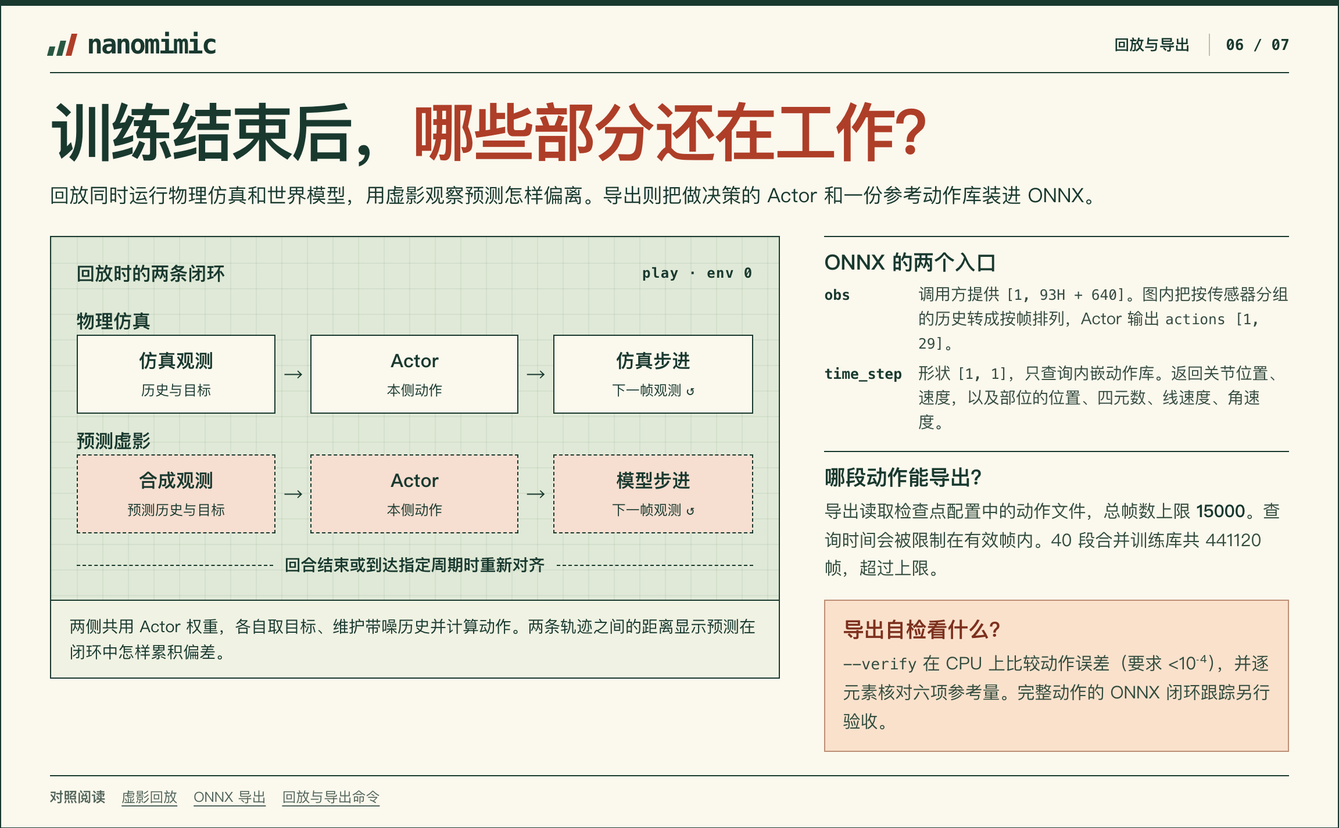
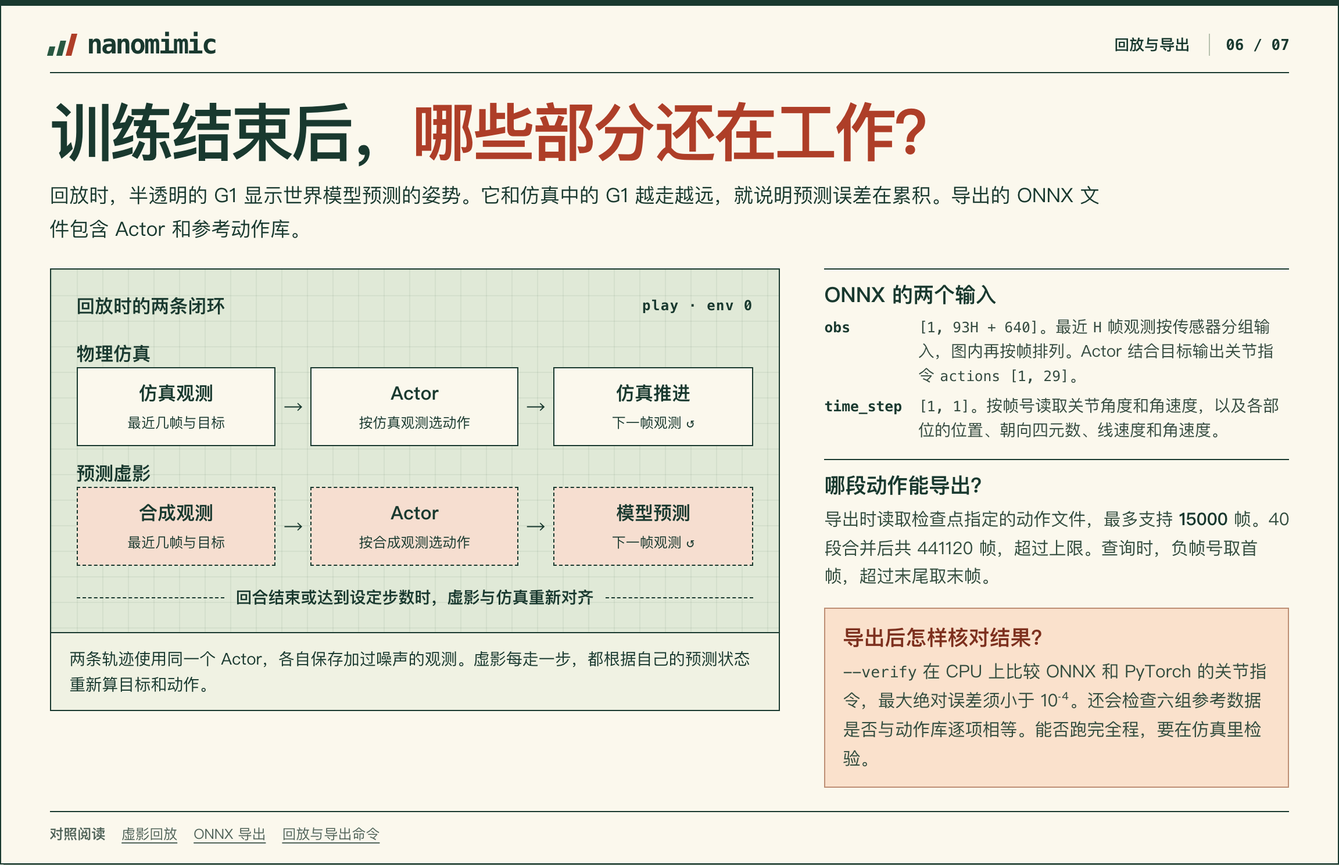
docs(wiki): 改写八张图解海报的中文说明
说明 CPU 测试怎样与参考结果比较，以及每次跟踪尝试统计到哪一步。同步更新 HTML 和 PNG 海报。

diff --git a/docs/wiki/html/01-training.html b/docs/wiki/html/01-training.html
@@ -16,15 +16,15 @@
     </header>
     <header class="titleblock">
       <h1>仿真走一步，<em>模型能推演多远？</em></h1>
-      <p>策略（Actor）给关节下指令，物理仿真记录 G1 的响应。连续几帧可以教模型预测，取其中一帧又可以让策略尝试接下来的动作。</p>
+      <p>策略（Actor）给关节发指令，仿真器记录 G1 怎样运动。模型用连续几帧学习预测，策略也可以从其中一帧出发，在模型里尝试接下来的动作。</p>
     </header>
     <div class="spread">
       <figure class="plate training-figure">
         <div class="plate-inner blueprint">
           <div class="fig-head"><span>一条轨迹的两种用法</span><span class="fig-no">1 → 8 / 32</span></div>
           <svg class="diagram" viewBox="0 0 602 263" role="img" aria-labelledby="flow-title flow-desc">
-            <title id="flow-title">物理采集、世界模型拟合和想象构成训练闭环</title>
-            <desc id="flow-desc">物理仿真每次前进一步，轨迹进入回放缓冲。连续九帧用于拟合八步，单帧起点和历史用于三十二步想象。更新后的策略回到仿真采集。</desc>
+            <title id="flow-title">一段仿真记录如何用于训练模型和策略</title>
+            <desc id="flow-desc">仿真器每走一步就把记录写入缓冲区。用连续九帧训练模型预测八步，也可以从一帧及其观测历史出发，让策略在模型中尝试三十二步。更新后的策略继续在仿真中采集数据。</desc>
             <defs>
               <marker id="arrow" viewBox="0 0 10 10" refX="8" refY="5" markerWidth="6" markerHeight="6" orient="auto"><path d="M0 0 10 5 0 10Z" fill="#cddbcc"/></marker>
               <marker id="return-arrow" viewBox="0 0 10 10" refX="8" refY="5" markerWidth="6" markerHeight="6" orient="auto"><path d="M0 0 10 5 0 10Z" fill="#fa906c"/></marker>
@@ -38,33 +38,33 @@
               <rect x="3" y="78" width="126" height="65" fill="#eff1dd"/><rect x="180" y="78" width="123" height="65" fill="#eff1dd"/>
               <rect x="433" y="18" width="148" height="64" fill="#e4edcf"/><rect x="433" y="138" width="148" height="64" fill="#f3d46e"/>
               <g color="#19392f">
-                <text x="66" y="106" class="node-title">物理仿真</text><text x="66" y="127" class="node-sub">Actor 出动作</text>
-                <text x="242" y="106" class="node-title">回放缓冲</text><text x="242" y="127" class="node-sub">每环境 1000 步</text>
+                <text x="66" y="106" class="node-title">物理仿真</text><text x="66" y="127" class="node-sub">Actor 选动作</text>
+                <text x="242" y="106" class="node-title">回放缓冲区</text><text x="242" y="127" class="node-sub">每个环境 1000 步</text>
                 <text x="507" y="46" class="node-title">拟合动力学</text><text x="507" y="67" class="node-sub">预测 8 步</text>
                 <text x="507" y="166" class="node-title">改进策略</text><text x="507" y="187" class="node-sub">想象 32 步</text>
               </g>
-              <g class="node-sub"><text x="152" y="98">写入</text><text x="374" y="41">连续 9 帧</text><text x="376" y="158">起点和历史</text><text x="551" y="114">模型固定</text></g>
-              <text x="279" y="250" color="#ffc5a4" font-size="15">更新后的 Actor 回到仿真采集</text>
+              <g class="node-sub"><text x="152" y="98">写入</text><text x="374" y="41">连续 9 帧</text><text x="376" y="158">起点和历史</text><text x="551" y="114">固定参数</text></g>
+              <text x="279" y="250" color="#ffc5a4" font-size="15">用更新后的 Actor 继续采集轨迹</text>
             </g>
           </svg>
           <ol class="narrow-flow">
-            <li>物理仿真走 1 步，写入回放缓冲。</li>
-            <li><strong>连续 9 帧</strong> → 用记录的动作拟合 8 步。</li>
-            <li><strong>起点和历史</strong> → 在学好的模型里想象 32 步。</li>
-            <li>更新后的 Actor 回到仿真采集。</li>
+            <li>物理仿真走 1 步，把记录写入缓冲区。</li>
+            <li><strong>连续 9 帧</strong> → 用记录中的动作预测后 8 帧。</li>
+            <li><strong>起点和观测历史</strong> → 让策略在模型里尝试 32 步。</li>
+            <li>用更新后的 Actor 继续采集轨迹。</li>
           </ol>
         </div>
         <figcaption class="fig-caption">拟合时，模型依次执行记录中的动作。想象时，Actor 根据每一步的预测状态重新决定动作。</figcaption>
       </figure>
       <aside class="sidebar">
-        <section class="note"><h2>8 步，学动作的后果</h2><p>选取同一回合内的连续状态，从首帧向前预测。后面 8 帧的仿真状态给世界模型提供监督。</p></section>
+        <section class="note"><h2>8 步，学会预测</h2><p>从同一回合取连续 9 帧。模型从第 1 帧开始，按记录中的动作预测后 8 帧，再把每一步的预测与仿真记录比较。</p></section>
         <details class="note extra-note" open><summary><h2>32 步，找更好的动作</h2></summary><p>默认推演 0.64 秒。回报的梯度沿预测链传回 Actor。此时世界模型与价值网络的参数固定，仍保留对输入的导数。</p></details>
-        <details class="note tint extra-note" open><summary><h2>多久更新一次？</h2></summary><p>默认 4096 个环境，每次采集累积 <strong>0.4 轮</strong>训练额度。缓冲可采样且额度满一轮时，先拟合模型，再改进策略。</p></details>
+        <details class="note tint extra-note" open><summary><h2>多久更新一次？</h2></summary><p>默认同时运行 4096 个环境，平均每采集 <strong>5 次</strong>训练 <strong>2 轮</strong>。缓冲区里有同一回合的连续 9 帧后才开始训练，每轮先拟合模型，再改进策略。</p></details>
       </aside>
     </div>
     <footer class="sources">
       <strong>对照阅读</strong>
-      <a href="../../../src/nanomimic/training/train.py">采集与排程</a>
+      <a href="../../../src/nanomimic/training/train.py">采集与训练调度</a>
       <a href="../../../src/nanomimic/rollout/buffer.py">缓冲采样</a>
       <a href="../../../src/nanomimic/training/learning.py">拟合与策略更新</a>
       <a href="../../../src/nanomimic/training/config.py">默认配置</a>

diff --git a/docs/wiki/html/04-world-model.html b/docs/wiki/html/04-world-model.html
@@ -16,7 +16,7 @@
     </header>
     <header class="titleblock">
       <h1>怎样从动作推算<em>下一个姿势？</em></h1>
-      <p>世界模型先学“速度会变多少”。得到新速度之后，用一个控制步的时间更新位姿，再沿关节树算出手脚的位置。</p>
+      <p>世界模型先预测速度会变多少，再用新速度推算 0.02 秒后机器人的位置和姿势。知道骨盆的位置、朝向和各关节的角度，就能沿关节树算出手脚的位置。这一步叫正运动学（FK）。</p>
     </header>
     <div class="spread">
       <figure class="plate">
@@ -24,18 +24,18 @@
           <div class="fig-head"><span>世界模型的一步</span><span class="fig-no">dt = 0.02 s</span></div>
           <div class="model-layout">
             <div class="model-math">
-          <div class="representation" aria-label="68 维状态、29 维处理后动作、33 维环境上下文，拼为 130 维输入">
+          <div class="representation" aria-label="68 维模型状态、29 维关节目标和 33 维仿真参数，共 130 维输入">
             <div class="term"><b>68</b><small>模型状态</small></div><span>+</span>
             <div class="term"><b>29</b><small>关节目标¹</small></div><span>+</span>
-            <div class="term"><b>33</b><small>环境上下文</small></div>
+            <div class="term"><b>33</b><small>仿真参数</small></div>
           </div>
           <div class="model-band"><span><strong>130 维</strong> → 动力学网络</span><b>3 × 2048</b></div>
-          <p class="under-band"><strong>↓ 输出 35 个速度增量</strong><br>根线速度 3、根角速度 3、关节速度 29。</p>
-          <div class="under-band flow-inline"><strong>新速度</strong><b>→</b><strong>积分位姿</strong><b>→</b><strong>FK</strong></div>
+          <p class="under-band"><strong>↓ 输出 35 个速度增量</strong><br>骨盆的线速度和角速度各 3 项，关节角速度 29 项。</p>
+          <div class="under-band flow-inline"><strong>更新速度</strong><b>→</b><strong>积分求位姿</strong><b>→</b><strong>FK</strong></div>
             </div>
             <svg class="diagram leg" viewBox="0 0 166 215" role="img" aria-labelledby="leg-title leg-desc">
               <title id="leg-title">G1 左腿正运动学</title>
-              <desc id="leg-desc">在舞步第 3040 帧的实际姿势上标出左髋、左膝和左踝。计算子部位的位置时要先知道父部位的位姿。</desc>
+              <desc id="leg-desc">图中标出舞步第 3040 帧的左髋、左膝和左踝。沿左腿从髋关节算到膝关节，再从膝关节算到脚踝。</desc>
               <image href="assets/g1-3040.webp" width="117.6" height="200.1"/>
               <path d="M71.95 99.32 49.73 130.43 58.08 171.18" fill="none" stroke="#b44427" stroke-width="2"/>
               <g fill="none" stroke="#87462b" stroke-width="1.25"><path d="M72 99.32H119 M50 130.43H119 M59 171.18H119"/></g>
@@ -45,19 +45,19 @@
             </svg>
           </div>
         </div>
-        <figcaption class="fig-caption">¹ 原始动作乘缩放系数再加偏置。环境上下文由脚摩擦 1 维、质心偏移 3 维和编码器偏置 29 维构成。</figcaption>
+        <figcaption class="fig-caption">¹ 将原始动作乘以缩放系数，再加上偏置，就得到关节目标。33 个仿真参数包括 1 个脚底摩擦系数、3 个方向的质心偏移和 29 个关节的编码器偏置。</figcaption>
       </figure>
       <aside class="sidebar">
         <section class="note tint"><h2>只看一个膝关节</h2><p>示例角度 0.40 rad，角速度 1.0 rad/s。网络预测本步增加 0.5 rad/s，新角速度就是 1.5 rad/s。</p><p class="under-band"><strong>新角度 = 0.40 + 0.02 × 1.5 = 0.43 rad</strong></p></section>
-        <details class="note extra-note" open><summary><h2>根位姿从哪里来？</h2></summary><p>71 维完整状态转成 68 维模型表示，保留根高度、机体系重力与速度、关节角度与速度。根位置和四元数另存为 7 维，随步积分。FK 沿树计算后取 14 个跟踪部位。</p></details>
-        <details class="note extra-note" open><summary><h2>什么算“预测得准”？</h2></summary><p>根位置、根朝向、关节位置与速度各有名义误差。Bryson 权重取其平方的倒数，让米、弧度等不同单位可以共同计入损失。</p></details>
+        <details class="note extra-note" open><summary><h2>怎样知道骨盆的位置和朝向？</h2></summary><p>先把 71 维完整状态转成网络要读的 68 维，保留骨盆高度、机身坐标系下的重力方向和速度，以及关节角度和角速度。骨盆的位置（3 维）和朝向四元数（4 维）单独保存，每步按新速度更新。正运动学由此算出 14 个跟踪部位的状态。</p></details>
+        <details class="note extra-note" open><summary><h2>怎样衡量预测误差？</h2></summary><p>骨盆的位置、朝向、关节的角度和角速度各有一个参考误差。按 Bryson 规则，每项误差先除以对应的参考值，再平方。这样就能把单位不同的误差合在一起计算损失。</p></details>
       </aside>
     </div>
     <footer class="sources">
       <strong>对照阅读</strong>
       <a href="../../../src/nanomimic/models/model.py">积分与正运动学</a>
       <a href="../../../src/nanomimic/training/learning.py">加权损失</a>
-      <a href="../../../tests/test_model.py">对拍测试</a>
+      <a href="../../../tests/test_model.py">与参考结果比较的测试</a>
     </footer>
   </main>
   <nav class="page-nav" aria-label="海报导航">

diff --git a/docs/wiki/html/06-runtime.html b/docs/wiki/html/06-runtime.html
@@ -16,7 +16,7 @@
     </header>
     <header class="titleblock">
       <h1>训练结束后，<em>哪些部分还在工作？</em></h1>
-      <p>回放同时运行物理仿真和世界模型，用虚影观察预测怎样偏离。导出则把做决策的 Actor 和一份参考动作库装进 ONNX。</p>
+      <p>回放时，半透明的 G1 显示世界模型预测的姿势。它和仿真中的 G1 越走越远，就说明预测误差在累积。导出的 ONNX 文件包含 Actor 和参考动作库。</p>
     </header>
     <div class="spread">
       <figure class="plate">
@@ -24,27 +24,27 @@
           <div class="fig-head"><span>回放时的两条闭环</span><span class="fig-no">play · env 0</span></div>
           <div class="lanes">
             <div><strong>物理仿真</strong><div class="lane">
-              <span><b>仿真观测</b><small>历史与目标</small></span><span class="arrow">→</span>
-              <span><b>Actor</b><small>本侧动作</small></span><span class="arrow">→</span>
-              <span><b>仿真步进</b><small>下一帧观测 ↺</small></span>
+              <span><b>仿真观测</b><small>最近几帧与目标</small></span><span class="arrow">→</span>
+              <span><b>Actor</b><small>按仿真观测选动作</small></span><span class="arrow">→</span>
+              <span><b>仿真推进</b><small>下一帧观测 ↺</small></span>
             </div></div>
             <div><strong>预测虚影</strong><div class="lane pred">
-              <span><b>合成观测</b><small>预测历史与目标</small></span><span class="arrow">→</span>
-              <span><b>Actor</b><small>本侧动作</small></span><span class="arrow">→</span>
-              <span><b>模型步进</b><small>下一帧观测 ↺</small></span>
+              <span><b>合成观测</b><small>最近几帧与目标</small></span><span class="arrow">→</span>
+              <span><b>Actor</b><small>按合成观测选动作</small></span><span class="arrow">→</span>
+              <span><b>模型预测</b><small>下一帧观测 ↺</small></span>
             </div></div>
           </div>
-          <div class="sync-line">回合结束或到达指定周期时重新对齐</div>
+          <div class="sync-line">回合结束或达到设定步数时，虚影与仿真重新对齐</div>
         </div>
-        <figcaption class="fig-caption">两侧共用 Actor 权重，各自取目标、维护带噪历史并计算动作。两条轨迹之间的距离显示预测在闭环中怎样累积偏差。</figcaption>
+        <figcaption class="fig-caption">两条轨迹使用同一个 Actor，各自保存加过噪声的观测。虚影每走一步，都根据自己的预测状态重新算目标和动作。</figcaption>
       </figure>
       <aside class="sidebar">
-        <section class="note"><h2>ONNX 的两个入口</h2><dl class="ledger">
-          <dt><code>obs</code></dt><dd>调用方提供 <code>[1, 93H + 640]</code>。图内把按传感器分组的历史转成按帧排列，Actor 输出 <code>actions [1, 29]</code>。</dd>
-          <dt><code>time_step</code></dt><dd>形状 <code>[1, 1]</code>，只查询内嵌动作库。返回关节位置、速度，以及部位的位置、四元数、线速度、角速度。</dd>
+        <section class="note"><h2>ONNX 的两个输入</h2><dl class="ledger">
+          <dt><code>obs</code></dt><dd><code>[1, 93H + 640]</code>。最近 <code>H</code> 帧观测按传感器分组输入，图内再按帧排列。Actor 结合目标输出关节指令 <code>actions [1, 29]</code>。</dd>
+          <dt><code>time_step</code></dt><dd><code>[1, 1]</code>。按帧号读取关节角度和角速度，以及各部位的位置、朝向四元数、线速度和角速度。</dd>
         </dl></section>
-        <details class="note extra-note" open><summary><h2>哪段动作能导出？</h2></summary><p>导出读取检查点配置中的动作文件，总帧数上限 <strong>15000</strong>。查询时间会被限制在有效帧内。40 段合并训练库共 441120 帧，超过上限。</p></details>
-        <details class="note tint extra-note" open><summary><h2>导出自检看什么？</h2></summary><p><code>--verify</code> 在 CPU 上比较动作误差（要求 &lt;10⁻⁴），并逐元素核对六项参考量。完整动作的 ONNX 闭环跟踪另行验收。</p></details>
+        <details class="note extra-note" open><summary><h2>哪段动作能导出？</h2></summary><p>导出时读取检查点指定的动作文件，最多支持 <strong>15000</strong> 帧。40 段合并后共 441120 帧，超过上限。查询时，负帧号取首帧，超过末尾取末帧。</p></details>
+        <details class="note tint extra-note" open><summary><h2>导出后怎样核对结果？</h2></summary><p><code>--verify</code> 在 CPU 上比较 ONNX 和 PyTorch 的关节指令，最大绝对误差须小于 10⁻⁴。还会检查六组参考数据是否与动作库逐项相等。能否跑完全程，要在仿真里检验。</p></details>
       </aside>
     </div>
     <footer class="sources">

diff --git a/docs/wiki/html/02-architecture.html b/docs/wiki/html/02-architecture.html
@@ -16,7 +16,7 @@
     </header>
     <header class="titleblock">
       <h1>一次训练会经过<em>哪些模块？</em></h1>
-      <p>顺着 <code>train</code> 找到调度器。它向仿真要数据，再用这些张量拟合世界模型、更新策略。</p>
+      <p>运行 <code>train</code> 后，训练程序先从物理仿真采集数据，再用这些数据训练世界模型和策略。</p>
     </header>
     <div class="spread">
       <figure class="plate">
@@ -27,31 +27,32 @@
             <div class="entry-fork" aria-hidden="true"></div>
             <div class="branch">
               <div><span class="branch-label">↓ train</span><div class="branch-node"><strong><a href="../../../src/nanomimic/training/train.py">training/</a></strong><small>采集、拟合与策略改进</small></div></div>
-              <div><span class="branch-label">↓ play · export</span><div class="branch-node"><strong><a href="../../../src/nanomimic/runtime/">runtime/</a></strong><small>仿真适配、文件与回放</small></div></div>
+              <div><span class="branch-label">↓ play · export</span><div class="branch-node"><strong><a href="../../../src/nanomimic/runtime/">runtime/</a></strong><small>仿真接口、文件读写与回放</small></div></div>
             </div>
             <div class="branch" aria-hidden="true"><div>↓</div><div>↓</div></div>
             <div class="core">
-              <p>共享的张量计算与数据契约</p>
+              <p>训练和回放共用的计算与数据结构</p>
               <div class="core-chain">
                 <a href="../../../src/nanomimic/rollout/">rollout/<small>采样与想象</small></a><span>→</span>
                 <a href="../../../src/nanomimic/models/">models/<small>动力学与策略</small></a><span>→</span>
-                <a href="../../../src/nanomimic/common/">common/<small>契约与数学</small></a>
+                <a href="../../../src/nanomimic/common/">common/<small>数据结构与数学函数</small></a>
               </div>
             </div>
           </div>
         </div>
-        <figcaption class="fig-caption"><code>training/</code> 也通过 <code>runtime/sim.py</code> 采集物理数据。包内直接导入 mjlab 的入口只有 <code>sim.py</code> 和 <code>viewer.py</code>。</figcaption>
+        <figcaption class="fig-caption">训练程序通过 <code>runtime/sim.py</code> 读取仿真状态。整个包里，只有 <code>sim.py</code> 和 <code>viewer.py</code> 直接导入 mjlab。</figcaption>
       </figure>
       <aside class="sidebar">
-        <section class="note"><h2>想改跟踪评分</h2><p>从 <a href="../../../src/nanomimic/rollout/imagine.py"><code>rollout/imagine.py</code></a> 进入。目标窗口、奖励与软终止都在这里，可以对照 CPU 数值夹具。</p></section>
+        <section class="note"><h2>想改跟踪评分</h2><p>目标窗口和评分逻辑在 <a href="../../../src/nanomimic/rollout/imagine.py"><code>rollout/imagine.py</code></a>。测试用同一组输入在 CPU 上重算奖励和终止概率，再与 SuperMimic 预先算好的结果逐项比较。</p></section>
         <details class="note extra-note" open><summary><h2>想看网络怎样更新</h2></summary><p><a href="../../../src/nanomimic/training/train.py"><code>train.py</code></a> 决定何时更新，<a href="../../../src/nanomimic/training/learning.py"><code>learning.py</code></a> 实际拟合动力学、改进策略。网络本身定义在 <code>models/</code>。</p></details>
-        <details class="note extra-note" open><summary><h2>想找一次训练的结果</h2></summary><p>进入终端打印的时间戳目录。逐轮指标在 <code>metrics.jsonl</code>，检查点索引在 <code>checkpoints/index.json</code>，默认评估与导出各有子目录。</p></details>
+        <details class="note extra-note" open><summary><h2>想找一次训练的结果</h2></summary><p>打开训练启动时在终端显示的目录。每轮的指标在 <code>metrics.jsonl</code>，最新检查点的位置记在 <code>checkpoints/index.json</code>。评估结果和导出文件分别放在 <code>evaluations/</code> 和 <code>exports/</code>。</p></details>
       </aside>
     </div>
     <footer class="sources">
       <strong>对照阅读</strong>
       <a href="../../../src/nanomimic/">包目录</a>
-      <a href="../../../tests/test_import_rules.py">导入边界测试</a>
+      <a href="../../../tests/test_import_rules.py">模块依赖检查</a>
+      <a href="../../../tests/test_imagine.py">奖励和终止概率测试</a>
       <a href="../../SPEC.md">仓库结构</a>
     </footer>
   </main>

diff --git a/docs/wiki/html/07-evaluation.html b/docs/wiki/html/07-evaluation.html
@@ -16,7 +16,7 @@
     </header>
     <header class="titleblock">
       <h1>跑完整段动作，<em>有多难？</em></h1>
-      <p>从 <code>lafan_run1_subject5</code> 的第 0 帧跑到末帧，共 11889 个控制步。64 个环境各算第一次尝试，摔倒或提前超时就记为失败。</p>
+      <p>从 <code>lafan_run1_subject5</code> 的第 0 帧跟踪到末帧，要连续走 11889 个控制步。64 个仿真环境各跑一次，中途摔倒或提前超时都算失败。</p>
     </header>
     <div class="spread">
       <figure class="plate">
@@ -32,10 +32,10 @@
               </defs>
               <rect width="128" height="128" fill="url(#fail)"/><path d="M0 0H128V96H80V112H0Z" fill="url(#pass)"/>
             </svg>
-            <div><div class="score">53<small> / 64</small></div><p class="score-label"><b>82.81%</b> 完整成功<br>实心为成功，斜纹为失败</p></div>
+            <div><div class="score">53<small> / 64</small></div><p class="score-label">全程成功率 <b>82.81%</b><br>实心格表示成功，斜纹格表示失败</p></div>
           </div>
           <table class="comparison">
-            <thead><tr><th scope="col">迭代</th><th scope="col">完整成功</th><th scope="col">平均存活</th><th scope="col">部位位置误差</th></tr></thead>
+            <thead><tr><th scope="col">迭代次数</th><th scope="col">跑完全程</th><th scope="col">平均跟踪时长</th><th scope="col">部位位置误差</th></tr></thead>
             <tbody>
               <tr><th scope="row">1000</th><td>0 / 64</td><td>6.60 秒</td><td>14.43 cm</td></tr>
               <tr><th scope="row">2000</th><td>0 / 64</td><td>38.45 秒</td><td>11.30 cm</td></tr>
@@ -43,17 +43,17 @@
             </tbody>
           </table>
         </div>
-        <figcaption class="fig-caption">位置误差取 14 个跟踪部位重锚定后的平均距离，统计覆盖各次尝试的存活步。前两次评估都未跑完全程，平均存活时间显示了差别。</figcaption>
+        <figcaption class="fig-caption">每一步先把参考骨盆的水平位置和偏航角与仿真中的骨盆对齐，再算 14 个部位与各自目标位置的平均距离。表中位置误差按所有尝试实际走过的步数取平均，失败的最后一步也计入。</figcaption>
       </figure>
       <aside class="sidebar">
-        <section class="note tint"><h2>T7 仍待参考策略对照</h2><p>这是截至 2026-11-18 录入实测笔记的阶段结果。效果验收还要让参考策略按同一动作、同一协议评测，比较完整成功率和平均误差，再由用户确认阈值。</p></section>
-        <details class="note extra-note" open><summary><h2>4096 环境的显存验过吗？</h2></summary><p>T0–T6 已通过。T6 在 RTX 5060 Ti 上以 <strong>2048 环境</strong>跑 50 次迭代，整卡采样峰值 4610 MiB。新默认 <strong>4096 环境</strong>的完整训练峰值待测。</p></details>
-        <details class="note extra-note" open><summary><h2>导出和回放到哪一步？</h2></summary><p>T9 的 Mac CPU 虚影回放已验。T8 的 ONNX 已过 CPU 数值自检，仍需用 T7 合格策略完成整段 sim2sim 并保持不摔倒。</p></details>
+        <section class="note tint"><h2>T7 还需要和参考策略比较</h2><p>这是截至 2026-11-18 记录的阶段结果。还要让 SuperMimic 的策略按相同条件跑同一段动作，比较全程成功率和平均跟踪误差，再由用户确认验收阈值。</p></section>
+        <details class="note extra-note" open><summary><h2>4096 个环境一起训练占多少显存？</h2></summary><p>T0–T6 已通过验收。T6 在 RTX 5060 Ti 上用 <strong>2048 个环境</strong>训练了 50 次迭代，测得整张显卡的最高显存占用为 4610 MiB。默认配置已改为 <strong>4096 个环境</strong>，完整训练的显存峰值仍待实测。</p></details>
+        <details class="note extra-note" open><summary><h2>导出和回放验证到了哪一步？</h2></summary><p>T9 已在 Mac 的 CPU 上验证了虚影回放。T8 已在 CPU 上核对 ONNX 的输出。等 T7 的策略通过验收，还要做 sim2sim 测试，用导出的 ONNX 在仿真中跟踪整段动作，全程不摔倒才算通过。</p></details>
       </aside>
     </div>
     <footer class="sources">
       <strong>对照阅读</strong>
-      <a href="../../NOTES.md">阶段评估原表</a>
+      <a href="../../NOTES.md">评估原始记录</a>
       <a href="../../../tools/evaluate_tracking.py">整段评估脚本</a>
       <a href="../../SPEC.md">验收条件</a>
     </footer>

diff --git a/docs/wiki/html/05-return.html b/docs/wiki/html/05-return.html
@@ -16,12 +16,12 @@
     </header>
     <header class="titleblock">
       <h1>快要摔倒，<em>未来还值多少分？</em></h1>
-      <p>想象中的一步既要评估动作像不像，也要估计 G1 还能撑多久。越接近失衡，后面那些好动作对当前决策的分量就越轻。</p>
+      <p>模型每推演一步，都要看 G1 的动作和参考动作有多像，并估计这一回合有多大概率会在这里结束。越接近失衡，后续奖励对当前动作的影响就越小。</p>
     </header>
     <div class="spread">
       <figure class="plate" id="risk-demo">
         <div class="plate-inner grid-paper">
-          <div class="fig-head"><span>误差越过阈值时的软终止</span><span class="fig-no">p = sigmoid((e − 1) / 0.05)</span></div>
+          <div class="fig-head"><span>误差多大时，回合容易结束？</span><span class="fig-no">p = sigmoid((e − 1) / 0.05)</span></div>
           <div class="chart-wrap">
             <svg class="diagram chart" viewBox="0 0 500 191" role="img" aria-labelledby="risk-title risk-desc">
               <title id="risk-title">归一化误差与终止概率的关系</title>
@@ -37,17 +37,17 @@
           </div>
           <div class="plot-readout">
             <span>误差 <output for="risk-input" id="risk-value">1.00</output></span>
-            <span>本步终止 <output for="risk-input" id="risk-prob">50.0%</output></span>
-            <span>继续存活 <output for="risk-input" id="risk-survive">50.0%</output></span>
+            <span>结束概率 <output for="risk-input" id="risk-prob">50.0%</output></span>
+            <span>继续概率 <output for="risk-input" id="risk-survive">50.0%</output></span>
           </div>
           <div class="live-control" hidden><input type="range" id="risk-input" aria-label="用于计算终止概率的归一化误差" min="0.8" max="1.2" step="0.01" value="1"></div>
         </div>
-        <figcaption class="fig-caption">把骨盆高度误差、倾斜误差各自除以对应阈值，取较大者为 <code>e</code>。阈值处 <code>p = 0.5</code>，下一步仍存活的权重减半。</figcaption>
+        <figcaption class="fig-caption">把骨盆高度误差和倾斜误差分别除以各自的阈值，取较大者为 <code>e</code>。当 <code>e = 1</code> 时，本步结束的概率为 50%，下一步奖励的权重也因此减半。</figcaption>
       </figure>
       <aside class="sidebar">
         <section class="note"><h2>先给姿势打分</h2><p>骨盆位置和朝向在世界坐标系直接比较。比较各部位姿态时，先把参考动作的水平位置和偏航对齐到预测骨盆，保留参考的高度与倾斜。</p></section>
-        <details class="note extra-note" open><summary><h2>再看运动是否顺畅</h2></summary><p>另外比较各部位的线速度、角速度，扣除动作突变与关节越限。六项正奖励的权重合计 5，乘控制步长后每步上限为 0.10。</p></details>
-        <details class="note tint extra-note" open><summary><h2>把 32 步合成一次回报</h2></summary><p>每步奖励乘以时间折扣及此前累积的存活概率。末端再加上同样折扣后的价值估计，Actor 据此更新。价值网络（Critic）读取 68 维状态、640 维目标和 33 维环境信息，以广义优势估计（GAE）构造训练目标。</p></details>
+        <details class="note extra-note" open><summary><h2>再看运动是否顺畅</h2></summary><p>还要比较各部位的线速度和角速度。相邻两步的指令变化越大，或关节超出软限位越多，扣分就越多。六项正奖励的权重合计为 5，乘以控制步长后，每步最多得 0.10 分。</p></details>
+        <details class="note tint extra-note" open><summary><h2>怎样算 32 步的总回报？</h2></summary><p>每步奖励都乘以时间折扣和回合持续到该步的概率。32 步之后的回报由价值网络（Critic）估计，也按时间和继续跟踪的概率加权。Actor 根据总回报更新。Critic 读取 68 维状态、640 维目标和 33 维仿真参数，用广义优势估计（GAE）计算训练目标。</p></details>
       </aside>
     </div>
     <footer class="sources">

diff --git a/docs/wiki/html/03-observations.html b/docs/wiki/html/03-observations.html
@@ -16,7 +16,7 @@
     </header>
     <header class="titleblock">
       <h1>下一步，<em>策略看得见什么？</em></h1>
-      <p>Actor 同时读取身体最近的感受和动作库接下来的姿势。前者给出“我现在怎样”，后者给出“接下来要怎样”。</p>
+      <p>Actor 根据最近几帧的观测判断机器人现在怎样运动，再看动作库里接下来要跟踪的姿势，决定下一步怎样动。</p>
     </header>
     <div class="spread">
       <figure class="plate" id="frame-demo">
@@ -29,15 +29,15 @@
           <ol class="frame-list" aria-label="按顺序取到的十个目标帧">
             <li>35</li><li>40</li><li>45</li><li>50</li><li>55</li><li class="held">59</li><li class="held">59</li><li class="held">59</li><li class="held">59</li><li class="held">59</li>
           </ol>
-          <p class="brief" id="frame-hint">示例片段共 60 帧。斜纹格原本会越界，统一取这一段的末帧。</p>
+          <p class="brief" id="frame-hint">这段动作共 60 帧，帧号从 0 开始。斜纹格对应的帧号超过了 59，所以都取第 59 帧。</p>
           <div class="window-parts"><strong>每帧提供 29 个关节位置和 29 个关节速度</strong><span class="equation">10 × (29 + 29) = 580</span></div>
         </div>
         <figcaption class="fig-caption">第一格就是当前帧。片段足够长时，第十格在 45 个控制步之后，覆盖未来 0.9 秒。</figcaption>
       </figure>
       <aside class="sidebar">
-        <section class="note"><h2>身体感觉 <span class="mono">93</span> 维 / 帧</h2><p>投影重力 3、基座角速度 3、相对关节位置 29、关节速度 29、上一动作 29。历史保留最近 <code>H</code> 帧，默认 1 帧。回合重置时用同一帧带噪观测填满历史。</p></section>
-        <details class="note extra-note" open><summary><h2>参考目标从 670 维变为 640 维</h2></summary><p>完整目标还含相对位置 30 维、相对朝向 60 维。Actor 保留关节内容与相对朝向，共 <strong>580 + 60</strong> 维。</p></details>
-        <details class="note tint extra-note" open><summary><h2>两路信号合成 29 个动作</h2></summary><p>目标先编码成 32 维，再与 <code>93 × H</code> 维身体历史拼接，解码为 29 个关节指令。仿真采集和想象使用同一个传感器加噪函数。</p></details>
+        <section class="note"><h2>每帧观测有 <span class="mono">93</span> 个数</h2><p>机身坐标系下的重力方向和角速度各 3 个数，关节相对默认姿势的角度、关节角速度和上一步的指令各 29 个。保留最近 <code>H</code> 帧，默认 1 帧。新回合开始时，重复使用加过一次噪声的首帧来补齐记录。</p></section>
+        <details class="note extra-note" open><summary><h2>参考目标从 670 维变为 640 维</h2></summary><p>完整目标还含 30 维相对位置和 60 维相对朝向。Actor 读取关节角度、关节角速度和相对朝向，共 <strong>580 + 60</strong> 维。</p></details>
+        <details class="note tint extra-note" open><summary><h2>怎样给 29 个关节发指令？</h2></summary><p>Actor 把目标编码成 32 个数，再与最近 <code>H</code> 帧的观测（共 <code>93 × H</code> 个数）拼在一起，算出 29 个关节指令。仿真采集和模型推演都用同一个函数给观测加噪声。</p></details>
       </aside>
     </div>
     <footer class="sources">

diff --git a/docs/wiki/html/index.html b/docs/wiki/html/index.html
@@ -30,10 +30,10 @@
     <nav class="toc" aria-label="图解目录">
       <a href="01-training.html"><span class="toc-no">01</span><span class="toc-name">训练闭环</span><span class="toc-summary">一条仿真轨迹的两种用法</span><span class="go" aria-hidden="true">→</span></a>
       <a href="02-architecture.html"><span class="toc-no">02</span><span class="toc-name">源码地图</span><span class="toc-summary">从命令入口找到负责的文件</span><span class="go" aria-hidden="true">→</span></a>
-      <a href="03-observations.html"><span class="toc-no">03</span><span class="toc-name">观测与目标</span><span class="toc-summary">十帧目标怎样在末尾取值</span><span class="go" aria-hidden="true">→</span></a>
-      <a href="04-world-model.html"><span class="toc-no">04</span><span class="toc-name">世界模型</span><span class="toc-summary">跟着膝关节算一个控制步</span><span class="go" aria-hidden="true">→</span></a>
+      <a href="03-observations.html"><span class="toc-no">03</span><span class="toc-name">观测与目标</span><span class="toc-summary">快到片段末尾时怎样取十帧</span><span class="go" aria-hidden="true">→</span></a>
+      <a href="04-world-model.html"><span class="toc-no">04</span><span class="toc-name">世界模型</span><span class="toc-summary">算一算下一步的膝关节角度</span><span class="go" aria-hidden="true">→</span></a>
       <a href="05-return.html"><span class="toc-no">05</span><span class="toc-name">想象回报</span><span class="toc-summary">倾斜和摔倒怎样影响得分</span><span class="go" aria-hidden="true">→</span></a>
-      <a href="06-runtime.html"><span class="toc-no">06</span><span class="toc-name">回放与导出</span><span class="toc-summary">虚影怎样走，部署时带走什么</span><span class="go" aria-hidden="true">→</span></a>
+      <a href="06-runtime.html"><span class="toc-no">06</span><span class="toc-name">回放与导出</span><span class="toc-summary">虚影怎样运动，ONNX 里有什么</span><span class="go" aria-hidden="true">→</span></a>
       <a href="07-evaluation.html"><span class="toc-no">07</span><span class="toc-name">效果验收</span><span class="toc-summary">读懂跑步片段的 64 次尝试</span><span class="go" aria-hidden="true">→</span></a>
       <a href="../../SPEC.md"><span class="toc-no" aria-hidden="true">§</span><span class="toc-name">开发规格</span><span class="toc-summary">核对接口、默认值和验收条件</span><span class="go" aria-hidden="true">↗</span></a>
     </nav>

diff --git a/docs/wiki/README.md b/docs/wiki/README.md
@@ -1,19 +1,19 @@
 # nanomimic 图解 Wiki
 
-第一次接触这个项目，可以先看训练闭环，再跟着一个膝关节算一遍世界模型。想修改代码时，从源码地图找对应的文件。[训练闭环](01-training.png) · [世界模型](04-world-model.png) · [源码地图](02-architecture.png)
+第一次接触这个项目，可以先看一段仿真记录怎样用来训练模型和策略，再用膝关节的例子算出 20 毫秒后的角度。想修改代码时，从源码地图找对应的文件。[训练闭环](01-training.png) · [世界模型](04-world-model.png) · [源码地图](02-architecture.png)
 
 [![图册封面，G1 在同一段参考舞步中迈步、转身和举起双臂](00-index.png)](00-index.png)
 
 | 海报 | 这张图回答的问题 |
 | --- | --- |
-| [01 · 训练闭环](01-training.png) | 一段仿真轨迹，怎样既能教世界模型预测，又能让策略练习后面的动作？ |
+| [01 · 训练闭环](01-training.png) | 世界模型和策略怎样用同一段仿真记录学习？ |
 | [02 · 源码地图](02-architecture.png) | 从命令进入后，采集、想象、更新和仿真分别由哪个模块负责？ |
 | [03 · 观测与目标](03-observations.png) | 如果当前只剩几帧，策略看到的十帧目标会是什么？ |
 | [04 · 世界模型](04-world-model.png) | 网络输出速度增量之后，怎样算出膝关节的角度和脚的位置？ |
-| [05 · 想象回报](05-return.png) | 当前姿势的误差，怎样改变下一步仍然站稳的权重？ |
-| [06 · 回放与导出](06-runtime.png) | 预测虚影如何自己出动作，导出的 ONNX 又有哪些输入、输出？ |
-| [07 · 效果验收](07-evaluation.png) | 在真实跑步片段上，怎样结合存活时间、位置误差和完整成功率判断进步？ |
+| [05 · 想象回报](05-return.png) | 当前这一步越容易摔倒，后面的奖励还能算多少？ |
+| [06 · 回放与导出](06-runtime.png) | 回放时，虚影怎样决定下一步的动作？导出的 ONNX 有哪些输入和输出？ |
+| [07 · 效果验收](07-evaluation.png) | 跟踪一段跑步动作时，怎样结合跟踪时长、位置误差和全程成功率判断进展？ |
 
 上表的 PNG 可在 GitHub 直接浏览。把仓库保存在本地后，用浏览器打开 HTML 目录页即可离线翻页。观测页可拖动当前帧，回报页可调节误差，源码地图里的模块名可点击。浏览器打印将当前图解排为一张横向 A4。[HTML 目录页](html/index.html)
 
-封面的姿势来自 `dance1_subject1` 转为 50 Hz 后的第 3000、3040、3080 帧，按帧号从 0 开始计数。图中将 mjlab 自带的 Unitree G1 模型放到记录的刚体位姿，三帧使用相同视角和比例。效果页使用另一个片段 `lafan_run1_subject5` 的训练评估记录。[动作转换工具](../../tools/make_motion.py) · [实测记录](../NOTES.md)
+封面取自 `dance1_subject1` 按 50 Hz 采样后的第 3000、3040、3080 帧，帧号从 0 开始。每个姿势都按该帧记录的位置和朝向绘制，使用 mjlab 自带的 Unitree G1 模型。三帧的视角、比例相同。效果页的评估数据来自跑步片段 `lafan_run1_subject5`。[动作转换工具](../../tools/make_motion.py) · [实测记录](../NOTES.md)

diff --git a/docs/NOTES.md b/docs/NOTES.md
@@ -328,6 +328,9 @@ GPU 利用率均值 86.9444%、中位数 96%；不能据剩余显存直接推断
 已在浏览器核对目标窗口两端与软终止曲线的读数，禁用脚本后仍可离线阅读完整图文。
 本次沿用已有 GPU 实测，T7 与最终 sim2sim 的验收状态见本文开头。
 
+2026-11-18 修订图册用语。源码地图写明 CPU 测试如何与 SuperMimic 事先算好的结果比较，
+效果页说明每次尝试统计到哪一步，包括失败的最后一步。
+
 ## 最近代码验收与复现
 
 **最近代码验收（2026-11-18，提交前复跑）**：ruff、格式检查（51 文件）、
